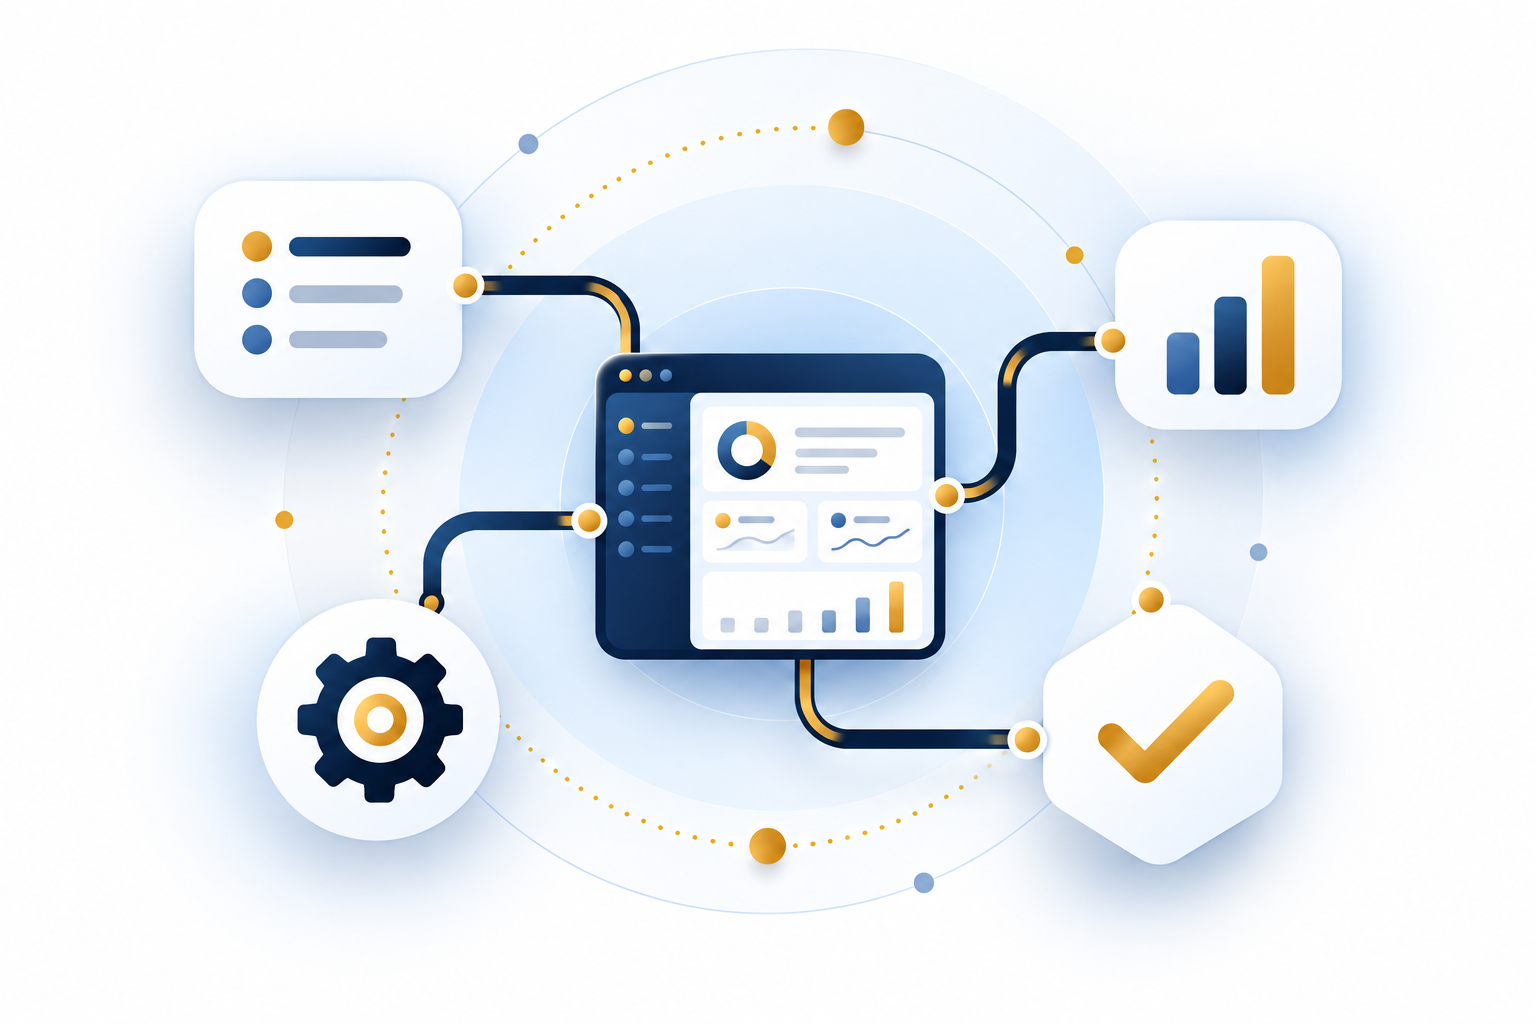
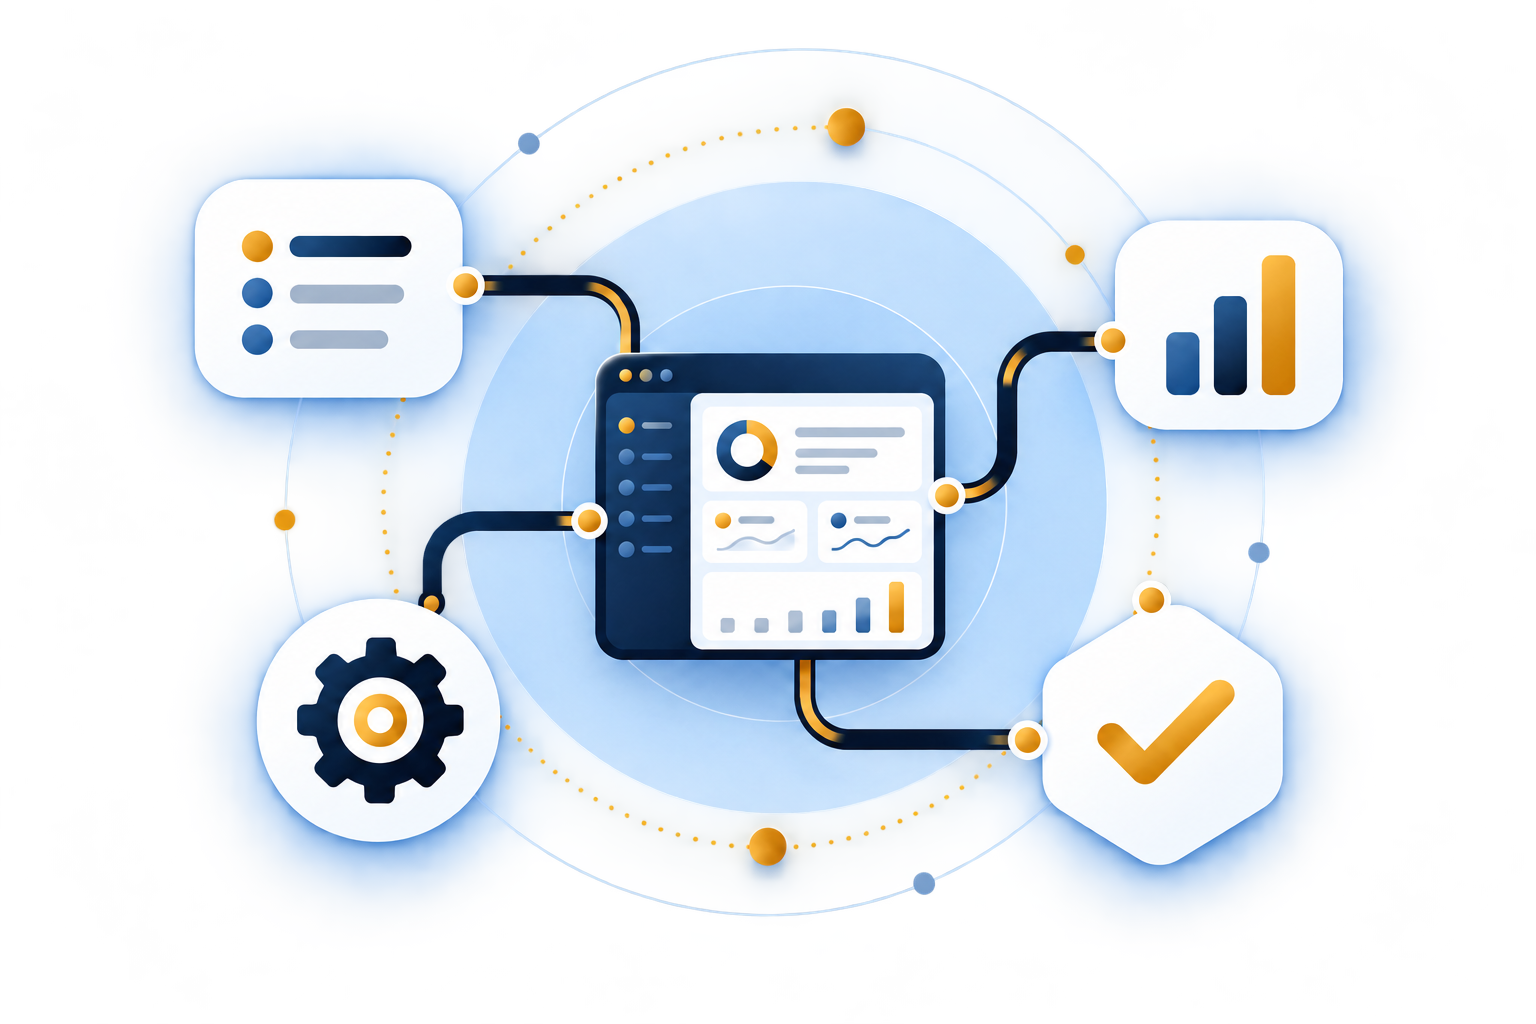
Ajusta a capa FLUXO e limita a área de ações

diff --git a/02-usuario/app/fluxo.css b/02-usuario/app/fluxo.css
@@ -358,7 +358,7 @@ dialog[open] { animation: fxPop var(--fx-base) var(--fx-ease); }
 .fx-capa-conteudo .status-badges { justify-content: flex-start; gap: 10px; margin: 18px 0 20px; }
 .fx-capa-conteudo .status-pill { padding: 9px 14px; font-size: .82rem; gap: 7px; background: var(--fx-surface); box-shadow: var(--fx-shadow); }
 /* Área tracejada de ações (como a área de envio das demais capas) */
-.fx-capa-acoes { width: 100%; display: flex; flex-direction: column; align-items: center; gap: 4px; padding: 22px 20px 20px; border: 2px dashed rgba(var(--fx-accent-rgb), .35); border-radius: 18px; background: rgba(var(--fx-surface-rgb), .6); text-align: center; transition: border-color .2s ease, background .2s ease; }
+.fx-capa-acoes { width: min(100%, 680px); display: flex; flex-direction: column; align-items: center; gap: 4px; padding: 22px 20px 20px; border: 2px dashed rgba(var(--fx-accent-rgb), .35); border-radius: 18px; background: rgba(var(--fx-surface-rgb), .6); text-align: center; transition: border-color .2s ease, background .2s ease; }
 .fx-capa-acoes:hover { border-color: rgba(var(--fx-accent-rgb), .6); background: rgba(var(--fx-accent-rgb), .05); }
 .fx-capa-acoes strong { font-size: 1.12rem; color: var(--fx-ink); }
 .fx-capa-acoes > span { color: var(--fx-ink-2); font-size: .92rem; }
@@ -381,12 +381,20 @@ dialog[open] { animation: fxPop var(--fx-base) var(--fx-ease); }
 
 /* ---- Coluna da ilustração ---- */
 .fx-capa-arte { position: relative; min-width: 0; height: 100%; display: flex; flex-direction: column; justify-content: center; gap: clamp(8px, 1.4dvh, 18px); perspective: 1000px; }
-.fx-capa-palco { position: relative; width: min(100%, 740px); margin: 0 auto; transform: rotateX(var(--fx-rx)) rotateY(var(--fx-ry)); transform-style: preserve-3d; transition: transform .25s ease-out; will-change: transform; }
-.fx-capa-imagem { display: block; width: 100%; height: auto; aspect-ratio: 3 / 2; object-fit: contain; border-radius: 20px; background: #fff; box-shadow: 0 18px 44px rgba(16, 30, 48, .10); }
-:root[data-theme="dark"] .fx-capa-imagem { border: 1px solid rgba(230, 188, 121, .2); box-shadow: 0 20px 48px rgba(0, 0, 0, .28); }
-@media (prefers-color-scheme: dark) { :root:not([data-theme="light"]) .fx-capa-imagem { border: 1px solid rgba(230, 188, 121, .2); box-shadow: 0 20px 48px rgba(0, 0, 0, .28); } }
+.fx-capa-palco { position: relative; isolation: isolate; width: min(100%, 740px); margin: 0 auto; transform: rotateX(var(--fx-rx)) rotateY(var(--fx-ry)); transform-style: preserve-3d; transition: transform .25s ease-out; will-change: transform; }
+.fx-capa-palco::before { content: ''; position: absolute; inset: 14% 15%; z-index: -1; border-radius: 50%; background: radial-gradient(circle, rgba(57,116,198,.17), rgba(230,188,121,.08) 42%, transparent 72%); filter: blur(18px); pointer-events: none; animation: fxHaloRespira 8s ease-in-out infinite; }
+.fx-capa-palco::after { content: ''; position: absolute; inset: 10% 24%; z-index: 0; border: 1px dashed rgba(210,164,82,.24); border-radius: 50%; pointer-events: none; animation: fxOrbita 44s linear infinite; }
+.fx-capa-imagem { position: relative; z-index: 1; display: block; width: 100%; height: auto; aspect-ratio: 3 / 2; object-fit: contain; filter: drop-shadow(0 18px 25px rgba(16,30,48,.11)); animation: fxArteFlutua 8s ease-in-out infinite; }
+.fx-capa-pulso { position: absolute; z-index: 2; width: 12px; height: 12px; border: 2px solid rgba(230,188,121,.8); border-radius: 50%; transform: translate(-50%,-50%); box-shadow: 0 0 0 0 rgba(230,188,121,.4); pointer-events: none; animation: fxNoPulso 3.6s ease-out infinite; }
+.fx-pulso-lista { left: 30%; top: 28%; }
+.fx-pulso-grafico { left: 72%; top: 33%; animation-delay: 1.2s; }
+.fx-pulso-aprovacao { left: 67%; top: 72%; animation-delay: 2.4s; }
+@keyframes fxArteFlutua { 0%,100% { transform: translateY(0); } 50% { transform: translateY(-6px); } }
+@keyframes fxOrbita { to { transform: rotate(360deg); } }
+@keyframes fxHaloRespira { 0%,100% { opacity: .55; transform: scale(.96); } 50% { opacity: 1; transform: scale(1.05); } }
+@keyframes fxNoPulso { 0%,100% { box-shadow: 0 0 0 0 rgba(230,188,121,.4); opacity: .8; } 55% { box-shadow: 0 0 0 12px rgba(230,188,121,0); opacity: 1; } }
 /* Etiquetas flutuantes com dados reais (como as etiquetas do mapa nas demais capas) */
-.fx-capa-chip { position: absolute; transform: translate(-50%, -50%) translateZ(40px); display: inline-flex; align-items: baseline; gap: 6px; padding: 8px 14px; border-radius: 999px; background: var(--fx-surface); color: var(--fx-ink-2); font-size: .82rem; font-weight: 600; white-space: nowrap; box-shadow: 0 10px 26px rgba(16, 30, 48, .16); border: 1px solid var(--fx-line); animation: fxChip 5s ease-in-out infinite; }
+.fx-capa-chip { position: absolute; z-index: 3; transform: translate(-50%, -50%) translateZ(40px); display: inline-flex; align-items: baseline; gap: 6px; padding: 8px 14px; border-radius: 999px; background: var(--fx-surface); color: var(--fx-ink-2); font-size: .82rem; font-weight: 600; white-space: nowrap; box-shadow: 0 10px 26px rgba(16, 30, 48, .16); border: 1px solid var(--fx-line); animation: fxChip 5s ease-in-out infinite; }
 .fx-capa-chip b { font-family: var(--fx-font-num); font-size: 1rem; font-weight: 800; color: var(--fx-ink); }
 .fx-chip-doc { left: 19%; top: 12%; }
 .fx-chip-gear { left: 72%; top: 10%; animation-delay: -1.6s; }
@@ -428,6 +436,7 @@ dialog[open] { animation: fxPop var(--fx-base) var(--fx-ease); }
 @media (prefers-reduced-motion: reduce) {
   .fx-capa-aurora, .fx-capa-conteudo .primary-actions .cta::after { display: none; }
   .fx-capa-palco { transform: none; }
+  .fx-capa-palco::before, .fx-capa-palco::after, .fx-capa-imagem, .fx-capa-pulso, .fx-capa-chip, .fx-entrada .fx-capa-conteudo > *, .fx-entrada .fx-capa-arte { animation: none; }
 }
 
 /* Destaques do sistema na capa: trio de cartões leves (ícone dourado + título + complemento) */

diff --git a/02-usuario/app/pgd.js b/02-usuario/app/pgd.js
@@ -4513,6 +4513,9 @@ function renderHome() {
       <div class="fx-capa-arte">
         <div class="fx-capa-palco" aria-hidden="true">
           ${FX_CAPA_ARTE}
+          <span class="fx-capa-pulso fx-pulso-lista"></span>
+          <span class="fx-capa-pulso fx-pulso-grafico"></span>
+          <span class="fx-capa-pulso fx-pulso-aprovacao"></span>
           <span class="fx-capa-chip fx-chip-doc"><b>${open.length}</b> ${open.length === 1 ? 'em aberto' : 'em aberto'}</span>
           <span class="fx-capa-chip fx-chip-gear"><b>${wfAbertos}</b> ${wfAbertos === 1 ? 'projeto em fluxo' : 'projetos em fluxo'}</span>
           <span class="fx-capa-chip fx-chip-ok"><b>${doneMonth}</b> ${doneMonth === 1 ? 'concluída no mês' : 'concluídas no mês'}</span>

diff --git a/02-usuario/app/marca/README.md b/02-usuario/app/marca/README.md
@@ -34,7 +34,7 @@ A palavra FLUXO é desenhada como vetor (não é texto em fonte). Por isso apare
 | `fluxo-logo-completa.svg` / `fluxo-logo-dark.svg` | Símbolo + FLUXO + descrição institucional | Área institucional do login (versão escura) e materiais |
 | `fluxo-logo-assinatura.svg` / `fluxo-logo-assinatura-dark.svg` | Logo completa + "Segue o FLUXO ✌" (composição da prancha) | Topo da tela Início |
 | `fluxo-favicon.svg` | Símbolo sobre quadrado branco arredondado (legível em abas claras e escuras) | Favicon de todas as páginas |
-| `fluxo-capa-processos.png` | Ilustração de processos preparada a partir da imagem anexada pelo usuário | Capa do Início, nos temas claro e escuro |
+| `fluxo-capa-processos.png` | Ilustração de processos preparada a partir da imagem anexada pelo usuário, com fundo transparente | Capa do Início, nos temas claro e escuro |
 | `gerar-marca.js` | Gerador de todos os SVGs a partir de uma única geometria | Para ajustar a marca: altere o script e rode `node gerar-marca.js .` nesta pasta |
 
 ## Aplicação nas telas
@@ -57,9 +57,9 @@ Cada local carrega a versão clara e a escura do ativo. A regra `.fx-claro` / `.
 
 ## Ilustração da capa do Início
 
-A capa ocupa toda a largura do painel e segue o padrão de capa do CSC (ideia principal à esquerda, ilustração à direita). **À esquerda:** logo completa como título, saudação, resumo e três cartões de destaque (ícone dourado, título e complemento): "Demandas e projetos em um só lugar" (na supervisão, "Equipe e demandas em um só lugar"), "Workflow E1 a E08 com governança" e "Indicadores no ritmo certo" (na supervisão, "Indicadores da área no ritmo certo"). Depois vem a área tracejada "Comece por aqui". **À direita:** a ilustração com três etiquetas de números reais (em aberto, projetos em fluxo, concluídas no mês). O estado da pasta fica no rodapé do menu; avisos de ausência continuam aparecendo na capa. No HTML, o conteúdo vem primeiro, então leitores de tela e o celular leem a marca e a saudação antes da ilustração, que é decorativa (`aria-hidden`).
+A capa ocupa toda a largura do painel e segue o padrão de capa do CSC (ideia principal à esquerda, ilustração à direita). **À esquerda:** logo completa como título, saudação, resumo e três cartões de destaque (ícone dourado, título e complemento): "Demandas e projetos em um só lugar" (na supervisão, "Equipe e demandas em um só lugar"), "Workflow E1 a E08 com governança" e "Indicadores no ritmo certo" (na supervisão, "Indicadores da área no ritmo certo"). Depois vem a área tracejada "Comece por aqui", limitada a 680 px e à largura disponível da coluna; seus botões quebram em telas menores. **À direita:** a ilustração com três etiquetas de números reais (em aberto, projetos em fluxo, concluídas no mês). O estado da pasta fica no rodapé do menu; avisos de ausência continuam aparecendo na capa. No HTML, o conteúdo vem primeiro, então leitores de tela e o celular leem a marca e a saudação antes da ilustração, que é decorativa (`aria-hidden`).
 
-A imagem da capa foi preparada com a ferramenta de edição de imagem a partir do primeiro anexo do usuário, preservando sua composição: tarefas, painel central, gráfico, engrenagem e aprovação conectados. O arquivo fica em `fluxo-capa-processos.png` e é inserido pelo motor em `../pgd.js` (`FX_CAPA_ARTE`). A área visual cresce até 740 px de largura sem distorção. As três etiquetas sobre a imagem continuam como elementos HTML com valores reais do sistema. A imagem e suas etiquetas são decorativas para leitores de tela; os indicadores acessíveis estão no conteúdo da página.
+A imagem da capa foi preparada com a ferramenta de edição de imagem a partir do primeiro anexo do usuário, preservando sua composição: tarefas, painel central, gráfico, engrenagem e aprovação conectados. O fundo externo foi removido com transparência real; os cartões e o painel dentro da arte continuam opacos. O arquivo fica em `fluxo-capa-processos.png` e é inserido pelo motor em `../pgd.js` (`FX_CAPA_ARTE`). A área visual cresce até 740 px de largura sem distorção. As três etiquetas sobre a imagem continuam como elementos HTML com valores reais do sistema. A imagem e suas etiquetas são decorativas para leitores de tela; os indicadores acessíveis estão no conteúdo da página.
 
 **Efeitos**
 
@@ -71,13 +71,15 @@ A imagem da capa foi preparada com a ferramenta de edição de imagem a partir d
 | Inclinação 3D | A ilustração inclina em perspectiva conforme a posição do mouse |
 | Entrada em cascata | Marca, estados, saudação e ações sobem em sequência. Só na primeira exibição, para não repetir a cada sincronização |
 | Etiquetas flutuantes | Os números da ilustração flutuam suavemente, em ritmos diferentes |
+| Órbita e pulsos | Um anel discreto gira atrás da arte; três pontos dourados pulsam nas conexões |
+| Movimento da arte | A imagem flutua alguns pixels e recebe um halo que respira lentamente |
 | Botão principal | Um reflexo de luz percorre "Nova demanda" de tempos em tempos |
 
 **Boas práticas**
 
 - O estado normal é sempre visível: as animações só aplicam o estado inicial durante a entrada. Se uma animação não rodar, nada fica escondido.
 - Os efeitos que seguem o mouse ficam desligados em telas de toque (`pointer: fine`). Com "reduzir animações" (`prefers-reduced-motion`), os movimentos param e a ilustração aparece completa.
-- No tema escuro, a imagem mantém seu fundo claro em um cartão deliberado para preservar as cores originais e o contraste.
+- A transparência permite que a imagem acompanhe as superfícies dos temas claro e escuro sem um retângulo branco ao redor.
 
 **Responsividade**
 
